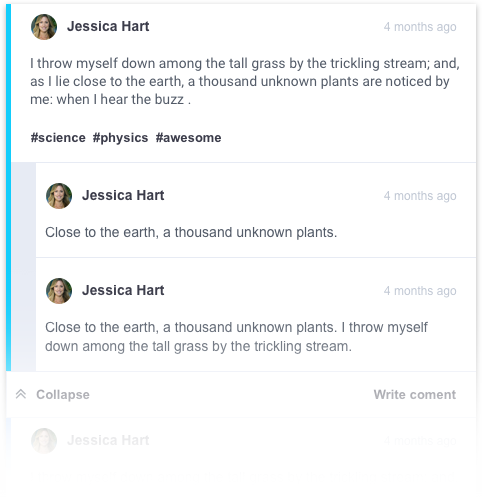
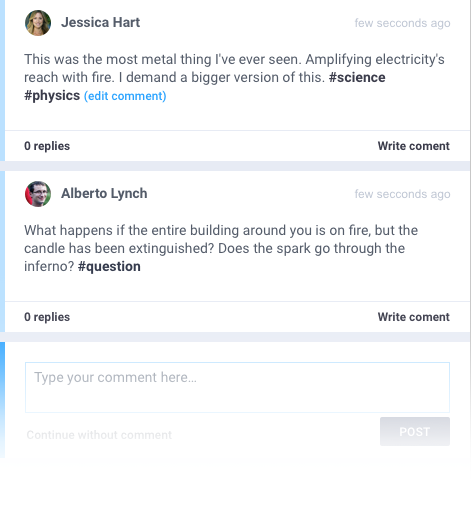
Added rest of images on features section

diff --git a/_pages/landing.html b/_pages/landing.html
@@ -125,7 +125,7 @@ description: Vibby homepage
       <ul class="tabs-contents">
           <li>
               <div class="content highlights">
-                highlihght
+                <img src="/assets/img/features-highlights.png" alt="">
               </div>
           </li>
           <li>
@@ -135,7 +135,7 @@ description: Vibby homepage
           </li>
           <li>
               <div class="content shareing">
-                share
+                <img src="/assets/img/features-share.png" alt="">
               </div>
           </li>
       </ul>
